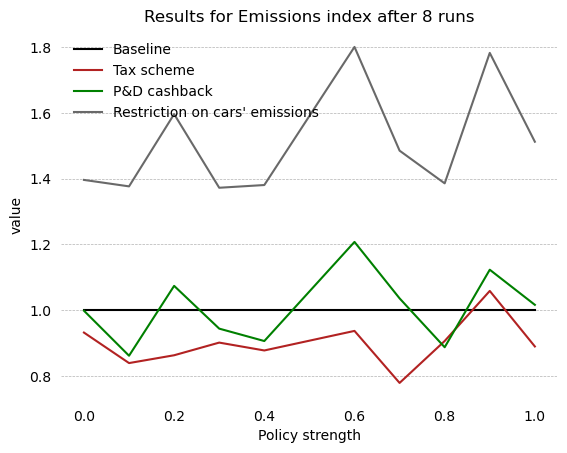
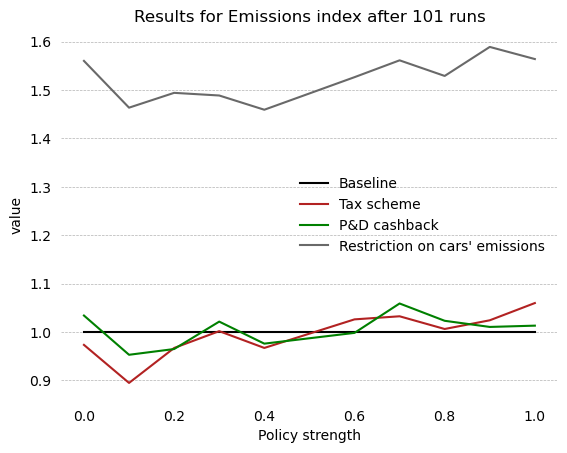
201 runs

diff --git a/model.py b/model.py
@@ -138,7 +138,8 @@ class Simulation:
             self.green_stations[self.t] = 1
         else:
             green_cars = self.num_cars['green'][self.t - 1]
-            total_cars = self.num_cars['gas'][self.t - 1] + self.num_cars['green'][self.t - 1]
+            total_cars = self.num_cars['gas'][self.t - 1] + self.num_cars['green'][self.t - 1] \
+                                                          + self.num_cars['hybrid'][self.t - 1]
             # One more place in which sold cars are 0
             self.green_market_share[self.t] = green_cars / total_cars if total_cars > 0 else 0
             # Update green stations
@@ -275,6 +276,6 @@ if __name__ == '__main__':
     # 3. Ruling on max emissions: 'e_max'
     pols = [None, 'tax', 'p_d', 'e_max']
     # pols = pols[0]
-    pol = pols[3]
+    pol = pols[1]
     p = {'policy': pol, 'level': level}
     s = main(p, verbose=False)

diff --git a/main.py b/main.py
@@ -111,7 +111,7 @@ def policies(n=10, n_jobs=1):
     for pol in pols:
         # A dictionary for each policy results
         results[pol] = dict()
-        # Run for all levels specificed
+        # Run for all levels specified
         for level in levels:
             p = {'policy': pol, 'level': level}
             # For each run policy, when dictionary with all runs is saved.
@@ -145,7 +145,7 @@ def benchmark(n=10):
 
 if __name__ == '__main__':
     t0 = time.time()
-    m = 8
+    m = 400
     # Number of cpus that will run simultaneously
     cpus = 8
     # benchmark(m)
